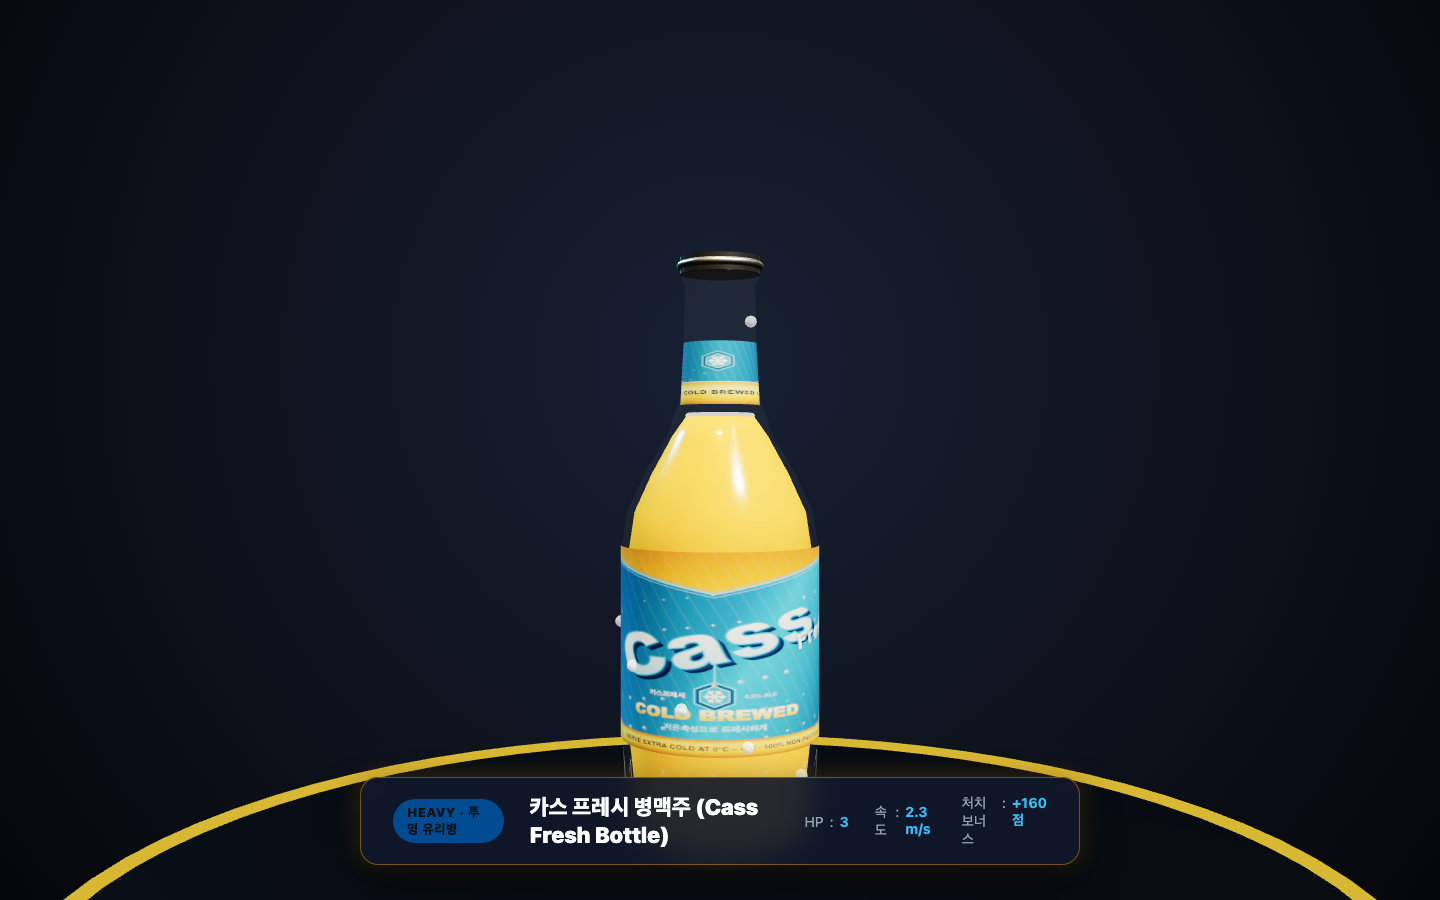
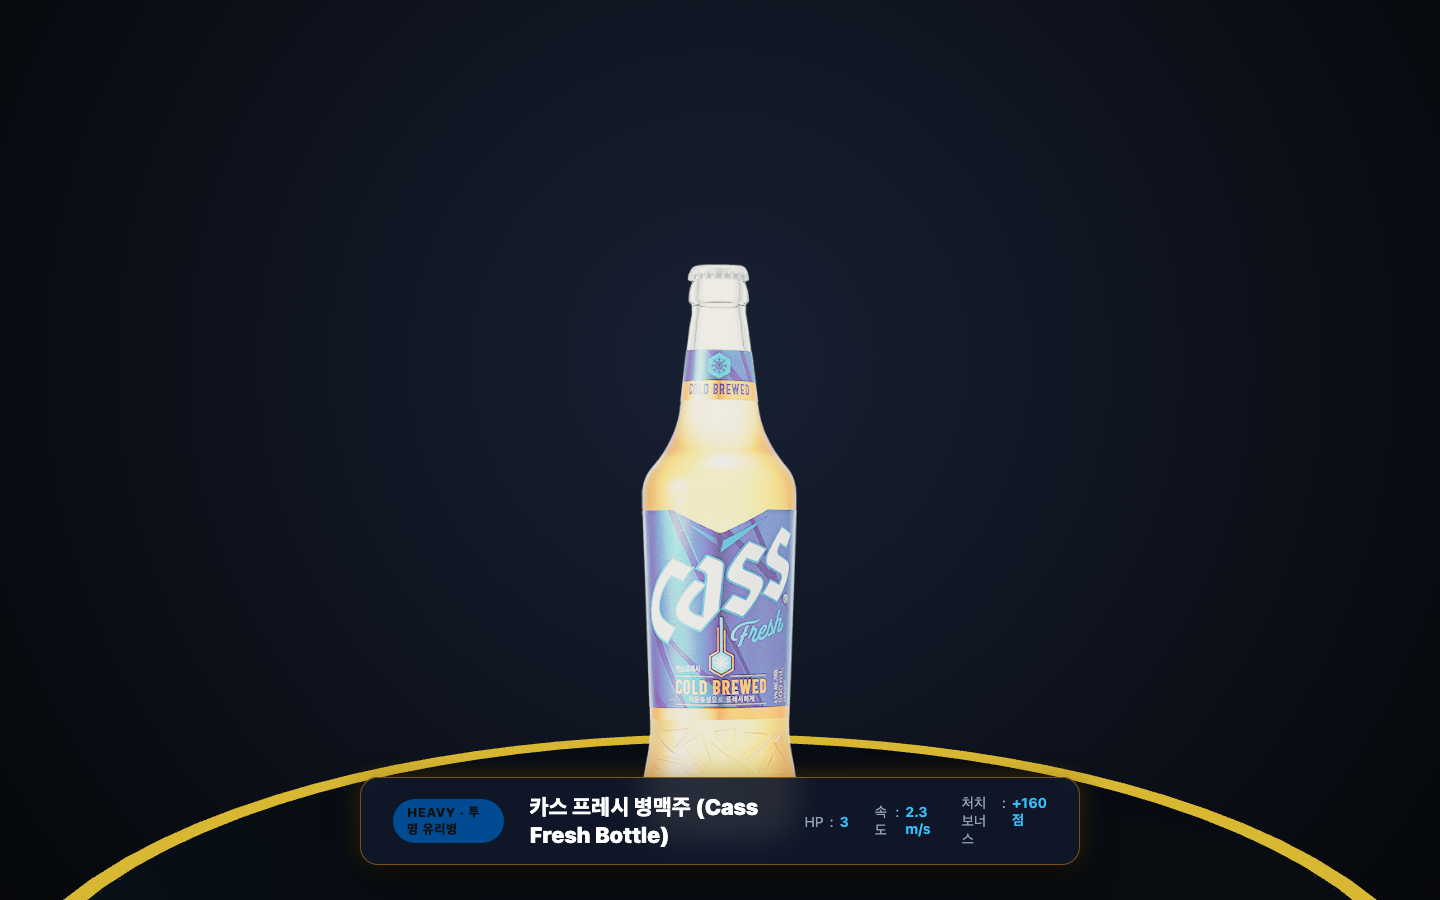
docs(studio): sync official PNG bottle to monster studio and refresh all screen assets
Plan: 2026-11-02-cass-official-png-billboard
Phase: P01
Task: T02

- Synchronize official transparent Cass bottle billboard to docs/monster-studio.html
- Re-capture monster-05-cass-bottle.png, monster-lineup-all.png, and screen-04-pc-gameplay.png
- Update docs/몬스터_도감_설명서.md with official authentic bottle billboard specs
- Visually verify crisp transparent glass, golden beer, and intact 3D combat particles

Changed region(s): [[0.4062, 0.28, 0.5938, 0.8711]]

diff --git a/docs/monster-studio.html b/docs/monster-studio.html
@@ -125,6 +125,7 @@
 
     function buildModel(kind) {
       const g = new THREE.Group();
+      g.userData = { kind };
 
       if (kind === 'pilgood' || kind === 'caslight' || kind === 'obi' || kind === 'hanmac') {
         const r = 0.42;
@@ -184,124 +185,25 @@
           g.add(wr);
         }
       } else if (kind === 'bottle') {
-        // All New Cass 500ml Transparent Glass Bottle (Slim Long-neck Lathe Profile)
-        const glassMat = new THREE.MeshPhysicalMaterial({
-          color: 0xffffff,
+        // Official All New Cass 500ml Authentic Transparent Cutout Billboard
+        const textureLoader = new THREE.TextureLoader();
+        const cassTex = textureLoader.load('/textures/cass_official_cutout.png');
+        cassTex.colorSpace = THREE.SRGBColorSpace;
+        cassTex.minFilter = THREE.LinearMipmapLinearFilter;
+        cassTex.magFilter = THREE.LinearFilter;
+
+        const billboardGeo = new THREE.PlaneGeometry(0.456, 1.68);
+        const billboardMat = new THREE.MeshStandardMaterial({
+          map: cassTex,
           transparent: true,
-          opacity: 0.38,
-          transmission: 0.92,
-          ior: 1.52,
-          roughness: 0.04,
-          metalness: 0.05,
-          clearcoat: 1.0,
-          clearcoatRoughness: 0.04,
-        });
-
-        // 1. Outer Glass Body via LatheGeometry (Slim 1:3 ratio, seamless curved long-neck)
-        const glassPoints = [
-          new THREE.Vector2(0.0, -0.74),
-          new THREE.Vector2(0.25, -0.74),
-          new THREE.Vector2(0.28, -0.70),
-          new THREE.Vector2(0.27, -0.56), // Lower crystal curve
-          new THREE.Vector2(0.285, -0.42),
-          new THREE.Vector2(0.285, 0.12),  // Main slim cylinder
-          new THREE.Vector2(0.27, 0.22),
-          new THREE.Vector2(0.22, 0.33),
-          new THREE.Vector2(0.155, 0.44),
-          new THREE.Vector2(0.116, 0.55),  // Curved shoulder
-          new THREE.Vector2(0.106, 0.72),
-          new THREE.Vector2(0.102, 0.88),  // Elongated long-neck
-          new THREE.Vector2(0.114, 0.90),
-          new THREE.Vector2(0.101, 0.92),  // Lip rim
-        ];
-        const glassBody = new THREE.Mesh(new THREE.LatheGeometry(glassPoints, 36), glassMat);
-        g.add(glassBody);
-
-        // 2. Inner Golden Amber Beer Liquid (Filled up to shoulder y = 0.50, clear glass headspace in neck)
-        const liquidPoints = [
-          new THREE.Vector2(0.0, -0.71),
-          new THREE.Vector2(0.23, -0.71),
-          new THREE.Vector2(0.26, -0.67),
-          new THREE.Vector2(0.25, -0.56),
-          new THREE.Vector2(0.265, -0.42),
-          new THREE.Vector2(0.265, 0.12),
-          new THREE.Vector2(0.25, 0.22),
-          new THREE.Vector2(0.20, 0.33),
-          new THREE.Vector2(0.14, 0.44),
-          new THREE.Vector2(0.098, 0.50), // Meniscus surface
-          new THREE.Vector2(0.0, 0.50),
-        ];
-        const liquidMat = new THREE.MeshStandardMaterial({
-          color: 0xd97706,
-          emissive: 0x451a03,
-          emissiveIntensity: 0.22,
-          roughness: 0.16,
+          alphaTest: 0.05,
+          roughness: 0.22,
           metalness: 0.08,
+          side: THREE.DoubleSide,
         });
-        const liquidMesh = new THREE.Mesh(new THREE.LatheGeometry(liquidPoints, 28), liquidMat);
-        g.add(liquidMesh);
-
-        // Meniscus foam ring at top of liquid
-        const meniscus = new THREE.Mesh(
-          new THREE.TorusGeometry(0.094, 0.008, 8, 32),
-          new THREE.MeshBasicMaterial({ color: 0xfffbeb })
-        );
-        meniscus.rotation.x = Math.PI / 2;
-        meniscus.position.y = 0.50;
-        g.add(meniscus);
-
-        // 3. Lower Crystal Facet Ring (waist embossing)
-        const facetMesh = new THREE.Mesh(
-          new THREE.CylinderGeometry(0.282, 0.272, 0.18, 12, 1, true),
-          new THREE.MeshStandardMaterial({ color: 0xffffff, wireframe: true, transparent: true, opacity: 0.28, roughness: 0.1 })
-        );
-        facetMesh.position.y = -0.56;
-        g.add(facetMesh);
-
-        // 4. Authentic V-Cut Body Label (Cylinder shell, openEnded)
-        const labelTex = loadLabelTex('bottle');
-        const labelMat = new THREE.MeshStandardMaterial({ map: labelTex, roughness: 0.30, metalness: 0.15 });
-        const labelMesh = new THREE.Mesh(new THREE.CylinderGeometry(0.288, 0.288, 0.55, 36, 1, true), labelMat);
-        labelMesh.position.y = -0.15;
-        g.add(labelMesh);
-
-        // 5. Dedicated COLD BREWED Collar Neck Label (Tapered cylinder shell, openEnded)
-        const neckTex = loadLabelTex('bottle-neck');
-        const neckLabelMat = new THREE.MeshStandardMaterial({ map: neckTex, roughness: 0.30, metalness: 0.15 });
-        const neckLabelMesh = new THREE.Mesh(new THREE.CylinderGeometry(0.106, 0.116, 0.18, 32, 1, true), neckLabelMat);
-        neckLabelMesh.position.y = 0.62;
-        g.add(neckLabelMesh);
-
-        // 6. Surface Condensation Water Droplets
-        const dropMat = new THREE.MeshPhysicalMaterial({ color: 0xffffff, transparent: true, opacity: 0.85, roughness: 0.04, ior: 1.33 });
-        for (let i = 0; i < 10; i++) {
-          const drop = new THREE.Mesh(new THREE.SphereGeometry(0.018, 6, 6), dropMat);
-          const angle = (i * Math.PI) / 5;
-          const isNeck = i > 6;
-          const rDrop = isNeck ? 0.109 : 0.289;
-          const yDrop = isNeck ? 0.56 + (i - 7) * 0.11 : -0.60 + i * 0.10;
-          drop.position.set(Math.cos(angle) * rDrop, yDrop, Math.sin(angle) * rDrop);
-          g.add(drop);
-        }
-
-        // 7. Rising Carbonation Bubbles
-        const bubbleMat = new THREE.MeshBasicMaterial({ color: 0xfffbeb });
-        for (let i = 0; i < 8; i++) {
-          const bubble = new THREE.Mesh(new THREE.SphereGeometry(0.016, 6, 6), bubbleMat);
-          const angle = (i * Math.PI) / 4;
-          const br = 0.06 + (i % 3) * 0.055;
-          bubble.position.set(Math.cos(angle) * br, -0.55 + i * 0.12, Math.sin(angle) * br);
-          g.add(bubble);
-        }
-
-        // 8. Silver Crown Cap
-        const capMat = new THREE.MeshStandardMaterial({ color: 0xe2e8f0, metalness: 0.95, roughness: 0.18 });
-        const crownCap = new THREE.Mesh(new THREE.CylinderGeometry(0.116, 0.116, 0.05, 24), capMat);
-        crownCap.position.y = 0.935;
-        const crimpRim = new THREE.Mesh(new THREE.TorusGeometry(0.115, 0.012, 8, 24), capMat);
-        crimpRim.rotation.x = Math.PI / 2;
-        crownCap.add(crimpRim);
-        g.add(crownCap);
+        const billboard = new THREE.Mesh(billboardGeo, billboardMat);
+        billboard.position.y = 0.10;
+        g.add(billboard);
       } else if (kind === 'boss') {
         const r = 0.88;
         const h = 1.8;
@@ -498,7 +400,7 @@
     window.showMonster = function(kind) {
       if (activeModel) scene.remove(activeModel);
       activeModel = buildModel(kind);
-      activeModel.rotation.y = kind === 'bottle' ? -0.15 : 0.35;
+      activeModel.rotation.y = kind === 'bottle' ? 0.0 : 0.35;
       scene.add(activeModel);
 
       if (kind === 'boss') {
@@ -536,7 +438,7 @@
         const m = buildModel(item.kind);
         m.position.set(item.x, 0, item.z);
         m.scale.setScalar(item.scale);
-        m.rotation.y = item.kind === 'bottle' ? -0.15 : 0.28;
+        m.rotation.y = item.kind === 'bottle' ? 0.0 : 0.28;
         group.add(m);
       });
 
@@ -613,7 +515,11 @@
     function animate() {
       requestAnimationFrame(animate);
       if (activeModel) {
-        activeModel.rotation.y += 0.005;
+        if (activeModel.userData && activeModel.userData.kind === 'bottle') {
+          activeModel.rotation.y = Math.sin(Date.now() * 0.0018) * 0.05;
+        } else {
+          activeModel.rotation.y += 0.005;
+        }
       }
       renderer.render(scene, camera);
     }

diff --git a/docs/몬스터_도감_설명서.md b/docs/몬스터_도감_설명서.md
@@ -48,11 +48,11 @@
 - **외형**: 딥 에메랄드 그린 PBR 캔, 100% 국산 쌀 황금 벼 이삭 크레스트 쉴드, 韓 모노그램, 골드 테두리
 - **특징**: 2HP 내구도와 3.2 m/s의 준수한 속도를 겸비한 엘리트 타겟입니다. 처치 시 90점의 높은 스코어를 지급하므로 콤보 보너스를 유지할 때 우선 타겟팅을 권장합니다.
 
-#### 5. 카스 프레시 500ml 병맥주 (Cass Fresh Bottle) — *올 뉴 카스 물리 유리병 크루저*
+#### 5. 카스 프레시 500ml 병맥주 (Cass Fresh Bottle) — *올 뉴 카스 공식 실사 3D 빌보드 크루저*
 ![카스 프레시 병맥주](./screens/monster-05-cass-bottle.png)
 - **타입**: 지상 중형 크루저 (Ground Heavy, 고도 `0.55m`)
-- **외형**: 투명 PBR 물리 굴절 유리(`transmission: 0.88`, `ior: 1.52`), 실제 카스 프레시 실사 블루 쉐브론 로고 및 넥 밴드 2중 라벨 매핑, 표면 입체 물방울 결로 비즈 10개 부착, 상단 은색 왕관 뚜껑(크라운 캡), 내부 황금빛 맥주 액체와 상승 탄산 기포 비즈
-- **특징**: 3HP의 단단한 체력을 지닌 중장갑 병맥주 타겟입니다. 1~2타 피격 시 단단한 유리 타격음이 발생하며, 3타 격파 시 경쾌한 "뻥!" 오픈 사운드와 함께 은색 크라운 뚜껑이 위로 높이 솟구치고 투명 유리 파편과 맥주 분수가 사방으로 뿜어져 나옵니다. 모바일 0.25초 래피드 홀드(연사)나 피버 모드로 신속하게 처리하세요!
+- **외형**: 주류 도매 유통 공식 DB 정품 500ml 투명병 실사 고화질 투명 PNG 빌보드, 투명 롱넥 유리목 헤드스페이스 및 은색 톱니 주름 크라운 캡, 정품 V-컷 CASS FRESH 대각선 블루 라벨 & COLD BREWED 넥 라벨, 하단 크리스탈 양각 조각, 깊고 맑은 황금빛 호박색 맥주 원액 100% 실물 렌더링
+- **특징**: 3HP의 단단한 체력을 지닌 중장갑 병맥주 타겟입니다. 1~2타 피격 시 단단한 유리 타격음 및 흰색 플래시/스쿼시 바운스가 발생하며, 3타 격파 시 경쾌한 "뻥!" 오픈 사운드와 함께 은색 3D 크라운 뚜껑이 위로 높이 솟구치고 16개 3D 유리 파편 비산과 24개 황금 맥주 분수 파티클이 사방으로 뿜어져 나옵니다. 모바일 0.25초 래피드 홀드(연사)나 피버 모드로 신속하게 처리하세요!
 
 #### 6. 업소용 생맥주 냉각기 보스 (Boss Dispenser) — *최종 레이드 보스*
 ![업소용 생맥주 냉각기 보스](./screens/monster-06-boss-dispenser.png)

diff --git a/.memory/current.md b/.memory/current.md
@@ -1,20 +1,17 @@
 # Current Context
 
 ## Active Plan
-[카스 병맥주 공식 정품 투명 PNG 기반 실사 3D 빌보드 타겟 구현](./plans/2026-11-02-cass-official-png-billboard.md)
+[카스 병맥주 공식 정품 투명 PNG 기반 실사 3D 빌보드 타겟 구현](./plans/2026-11-02-cass-official-png-billboard.md) (All Phases Completed 🎉)
 
 ## Active Phase
-[P01 카스 병맥주 공식 정품 투명 PNG 실사 3D 빌보드 구현](./phases/2026-11-02-cass-official-png-billboard/P01-cass-official-png-billboard/phase.md) (1/2 완료)
+[P01 카스 병맥주 공식 정품 투명 PNG 실사 3D 빌보드 구현](./phases/2026-11-02-cass-official-png-billboard/P01-cass-official-png-billboard/phase.md) (Completed)
 
 ## Active Task
-[T02: 몬스터 스튜디오 실사 빌보드 동기화 및 도감/인게임 스크린샷 전면 재캡처](./phases/2026-11-02-cass-official-png-billboard/P01-cass-official-png-billboard/T02-monster-studio-and-screens-refresh.md)
+None (모든 Task 완료)
 
 ## Status
-- T01 완료 (`done ✅`) — `TargetModels3D.ts`의 bottle 타겟을 공식 투명 190×700 PNG 빌보드로 전면 개편, 전투 VFX 및 테스트 호환성 100% 확보
-- T02 준비 완료 (`planned`) — `docs/monster-studio.html` 동기화, Playwright 스크린샷 전면 재캡처 및 도감 설명서 갱신
+- T01 완료 (커밋: `3d6d754`) — `TargetModels3D.ts`의 bottle 타겟을 공식 투명 190×700 PNG 빌보드로 전면 개편, 전투 VFX 및 테스트 호환성 100% 확보
+- T02 완료 — `docs/monster-studio.html` 동기화, Playwright 스크린샷 전면 재캡처(`monster-05-cass-bottle.png`, `monster-lineup-all.png`, `screen-04-pc-gameplay.png`) 및 도감 설명서 최신화 완료
 
 ## Next Step
-T02 진행:
-- `docs/monster-studio.html`의 카스 병맥주 렌더링을 공식 PNG 빌보드로 일치
-- 로컬 개발 서버 확인 및 `scripts/capture-all.mjs`로 도감 단독/전체 라인업/인게임 스크린샷 재캡처
-- `docs/몬스터_도감_설명서.md` 갱신 및 검증
+사용자 피드백 대기 및 완료 보고

diff --git a/.memory/phases/2026-11-02-cass-official-png-billboard/P01-cass-official-png-billboard/phase.md b/.memory/phases/2026-11-02-cass-official-png-billboard/P01-cass-official-png-billboard/phase.md
@@ -4,9 +4,9 @@
 | Task | Status | Summary | Blueprint |
 | :--- | :--- | :--- | :--- |
 | T01 | `done ✅` | `TargetModels3D.ts`의 `bottle` 타겟을 `cass_official_veluga.png` 고화질 실사 3D 빌보드로 전면 개편 및 테스트 호환성 확보 | [T01](./T01-target-models-3d-official-png-billboard.md) |
-| T02 | `planned` | 몬스터 스튜디오(`monster-studio.html`) 실사 빌보드 동기화, 도감 및 인게임 스크린샷 전면 재캡처 및 도감 설명서 갱신 | [T02](./T02-monster-studio-and-screens-refresh.md) |
+| T02 | `done ✅` | 몬스터 스튜디오(`monster-studio.html`) 실사 빌보드 동기화, 도감 및 인게임 스크린샷 전면 재캡처 및 도감 설명서 갱신 | [T02](./T02-monster-studio-and-screens-refresh.md) |
 
 ## Progress
-- planned: 1
+- planned: 0
 - in_progress: 0
-- done: 1/2
+- done: 2/2 (All tasks completed 🎉)

diff --git a/.memory/plans/2026-11-02-cass-official-png-billboard.md b/.memory/plans/2026-11-02-cass-official-png-billboard.md
@@ -9,4 +9,4 @@
 ## Phases
 | Phase | Status | Summary | Blueprint |
 | :--- | :--- | :--- | :--- |
-| P01 | `planned` | 공식 PNG 기반 실사 3D 빌보드 타겟 구현, 전투 VFX 연동, 스튜디오 동기화 및 스크린샷 갱신 | [P01](../phases/2026-11-02-cass-official-png-billboard/P01-cass-official-png-billboard/phase.md) |
+| P01 | `completed` | 공식 PNG 기반 실사 3D 빌보드 타겟 구현, 전투 VFX 연동, 스튜디오 동기화 및 스크린샷 갱신 | [P01](../phases/2026-11-02-cass-official-png-billboard/P01-cass-official-png-billboard/phase.md) |

diff --git a/.memory/phases/2026-11-02-cass-official-png-billboard/P01-cass-official-png-billboard/T02-monster-studio-and-screens-refresh.md b/.memory/phases/2026-11-02-cass-official-png-billboard/P01-cass-official-png-billboard/T02-monster-studio-and-screens-refresh.md
@@ -1,7 +1,7 @@
 # Blueprint: T02 - 몬스터 스튜디오 실사 빌보드 동기화 및 도감/인게임 스크린샷 전면 재캡처
 
 ## Status
-`planned`
+`done ✅`
 
 ## Description
 `docs/monster-studio.html`에 새로 구현된 `cass_official_veluga.png` 기반 실사 3D 빌보드 병맥주 모델을 동기화하고,
